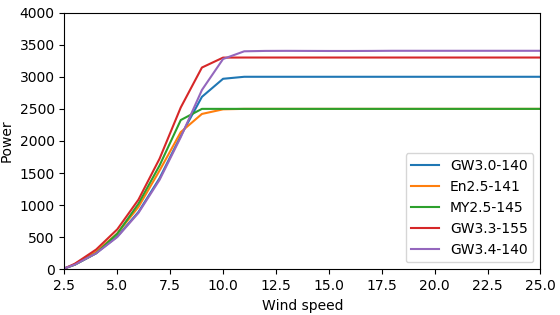
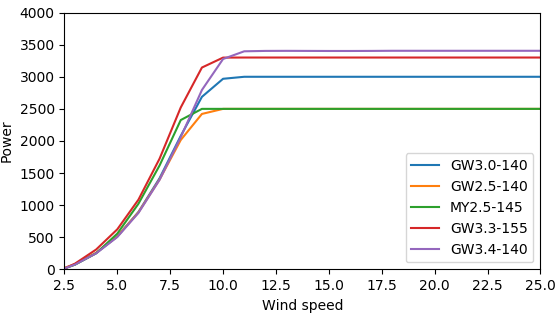
dox_project: 1.chapter 5 dynamic table and images  finished start chapter 8

diff --git a/chapter/test.py b/chapter/test.py
@@ -1,6 +1,70 @@
-from generate_images import generate_images
-from connect_sql import connect_sql
+import psycopg2
+import numpy as np
 
-path = r"C:\Users\Administrator\PycharmProjects\docx_project\files\results"
-turbine_list = ['GW3.3-155', 'MY2.5-145', 'GW3.0-140', 'GW3.4-140', 'En2.5-141']
-generate_images(path, turbine_list)
+
+def connect_sql(checklist):
+    db = psycopg2.connect(host='localhost', user='zhangyicheng', password='12345', port=5432, database='Turbine')
+    cur = db.cursor()
+    # sql_str = ''
+    #
+    # for i in range(len(turbine_list)):
+    #     if i == len(turbine_list) - 1:
+    #         sql_str = "(" + sql_str + '\'%s\')'
+    #     else:
+    #         sql_str = sql_str + '\'%s\','
+
+    # 第五章
+    # selectsql_tur = "SELECT * FROM tur_model WHERE tur_type_name in " + sql_str
+    # selectsql_power = "SELECT * FROM power_model WHERE tur_type_name in " + sql_str
+    # selectsql_efficiency = "SELECT * FROM efficiency_model WHERE tur_type_name in " + sql_str
+    #
+    # print(selectsql_tur)
+
+    # cur.execute(selectsql_tur % turbine_list)
+    # data_tur = cur.fetchall()  # 所有
+    # cur.execute(selectsql_power % turbine_list)
+    # data_power = cur.fetchall()  # 所有
+    # cur.execute(selectsql_efficiency % turbine_list)
+    # data_efficiency = cur.fetchall()  # 所有
+    print(checklist)
+    cur.execute(checklist)
+    data_foundation = cur.fetchall()  # 所有
+
+    db.close()
+    # data_tur_np = np.array(data_tur)
+    # data_power_np = np.array(data_power)
+    # data_efficiency_np = np.array(data_efficiency)
+    data_foundationy_np = np.array(data_foundation)
+    return data_foundationy_np
+
+
+# turbine_list = ['GW3.3-155', 'MY2.5-145', 'GW3.0-140', 'GW3.4-140', 'GW2.5-140']
+
+
+def foundation_args(**kwargs):
+    sql_str = ''
+    key_vaule = []
+    for k, v in kwargs.items():
+        if sql_str == '':
+            sql_str = sql_str + '%s' + ' = ' + '\'%s\''
+        else:
+            sql_str = sql_str + ' and ' + '%s' + ' = ' + '\'%s\''
+        key_vaule.append(k)
+        key_vaule.append(v)
+    foundation_sql = "SELECT * FROM foundation_model WHERE " + sql_str
+    return foundation_sql, key_vaule
+
+
+def p(*turbine_list):
+    return sql_foundation % turbine_list
+
+
+sql_foundation, key_vaule = foundation_args(foundation_type='扩展基础', baseboard_r=11)
+print(sql_foundation, key_vaule)
+sql_foundation = p(*key_vaule)
+
+foundation_np = connect_sql(sql_foundation)
+print(foundation_np)
+#
+# for k in kwargs.keys():
+#     a.append(str(k))

diff --git a/chapter/connect_sql.py b/chapter/connect_sql.py
@@ -13,9 +13,13 @@ def connect_sql(*turbine_list):
         else:
             sql_str = sql_str + '\'%s\','
 
+# 第五章
     selectsql_tur = "SELECT * FROM tur_model WHERE tur_type_name in " + sql_str
     selectsql_power = "SELECT * FROM power_model WHERE tur_type_name in " + sql_str
     selectsql_efficiency = "SELECT * FROM efficiency_model WHERE tur_type_name in " + sql_str
+
+# 第八章
+
 
     cur.execute(selectsql_tur % turbine_list)
     data_tur = cur.fetchall()  # 所有
@@ -28,3 +32,7 @@ def connect_sql(*turbine_list):
     data_power_np = np.array(data_power)
     data_efficiency_np = np.array(data_efficiency)
     return data_tur_np, data_power_np, data_efficiency_np
+
+turbine_list = ['GW3.3-155', 'MY2.5-145', 'GW3.0-140', 'GW3.4-140', 'GW2.5-140']
+data_tur_np, data_power_np, data_efficiency_np=connect_sql(*turbine_list)
+print(data_tur_np)

diff --git a/chapter/test2.py b/chapter/test2.py
@@ -1,0 +1,26 @@
+a = ['foundation_type', 'max_load']
+selectsql_foundation = "SELECT * FROM foundation_model WHERE %s in 扩展基础 and %s in 110000"
+print(selectsql_foundation)
+
+
+# turbine_list = ['GW3.3-155', 'MY2.5-145', 'GW3.0-140', 'GW3.4-140', 'GW2.5-140']
+#
+# sql_str = ''
+#
+# for i in range(len(turbine_list)):
+#     if i == len(turbine_list) - 1:
+#         sql_str = "(" + sql_str + '\'%s\')'
+#     else:
+#         sql_str = sql_str + '\'%s\','
+#
+# selectsql_tur = "SELECT * FROM tur_model WHERE tur_type_name in " + sql_str
+# selectsql_power = "SELECT * FROM power_model WHERE tur_type_name in " + sql_str
+# selectsql_efficiency = "SELECT * FROM efficiency_model WHERE tur_type_name in " + sql_str
+#
+
+def p(*turbine_list):
+    return selectsql_foundation % turbine_list
+
+
+selectsql_foundation = p(*a)
+print(selectsql_foundation)

diff --git a/chapter/generate_docx.py b/chapter/generate_docx.py
@@ -4,7 +4,7 @@ from generate_images import generate_images
 from docxtpl import DocxTemplate, InlineImage
 
 path_images = r"C:\Users\Administrator\PycharmProjects\docx_project\files\results"
-turbine_list = ['GW3.3-155', 'MY2.5-145', 'GW3.0-140', 'GW3.4-140', 'En2.5-141']
+turbine_list = ['GW3.3-155', 'MY2.5-145', 'GW3.0-140', 'GW3.4-140', 'GW2.5-140']
 
 tur_np, power_np, efficiency_np = connect_sql(*turbine_list)
 generate_images(path_images, power_np, efficiency_np)
